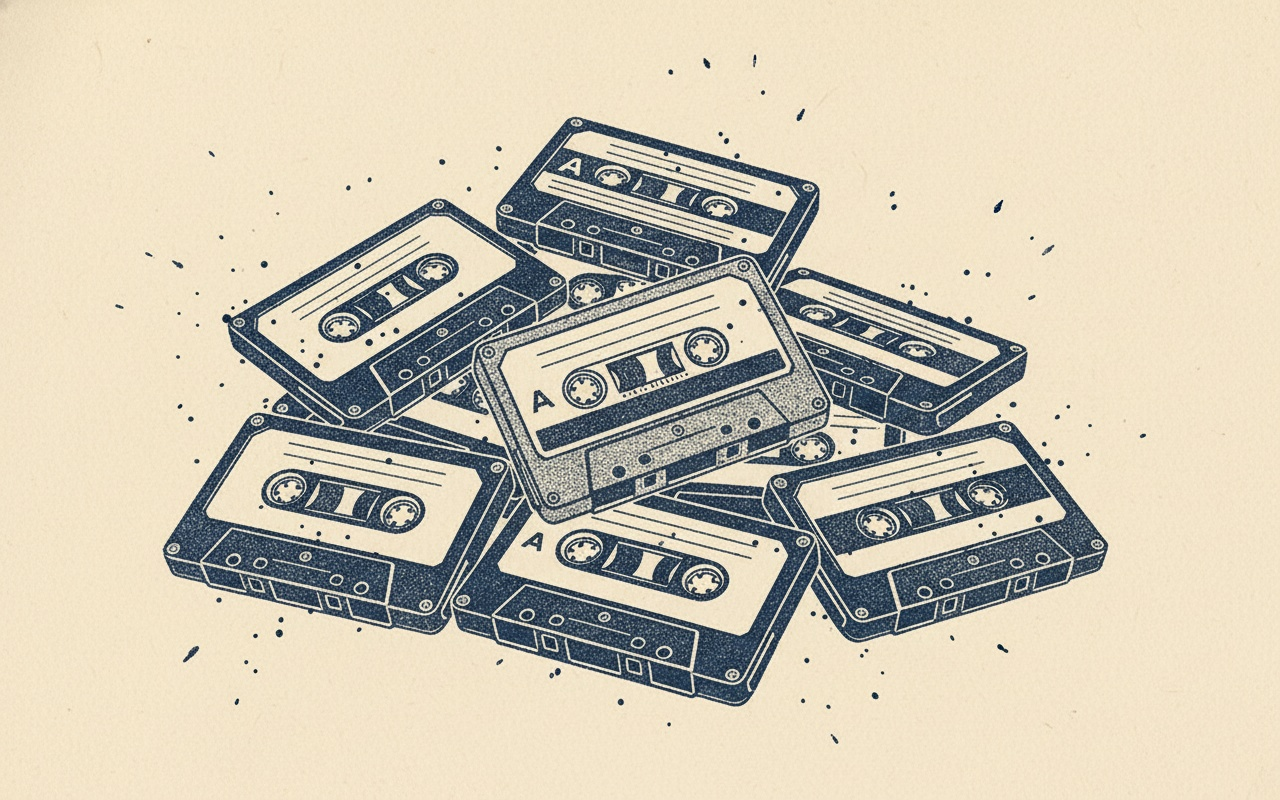
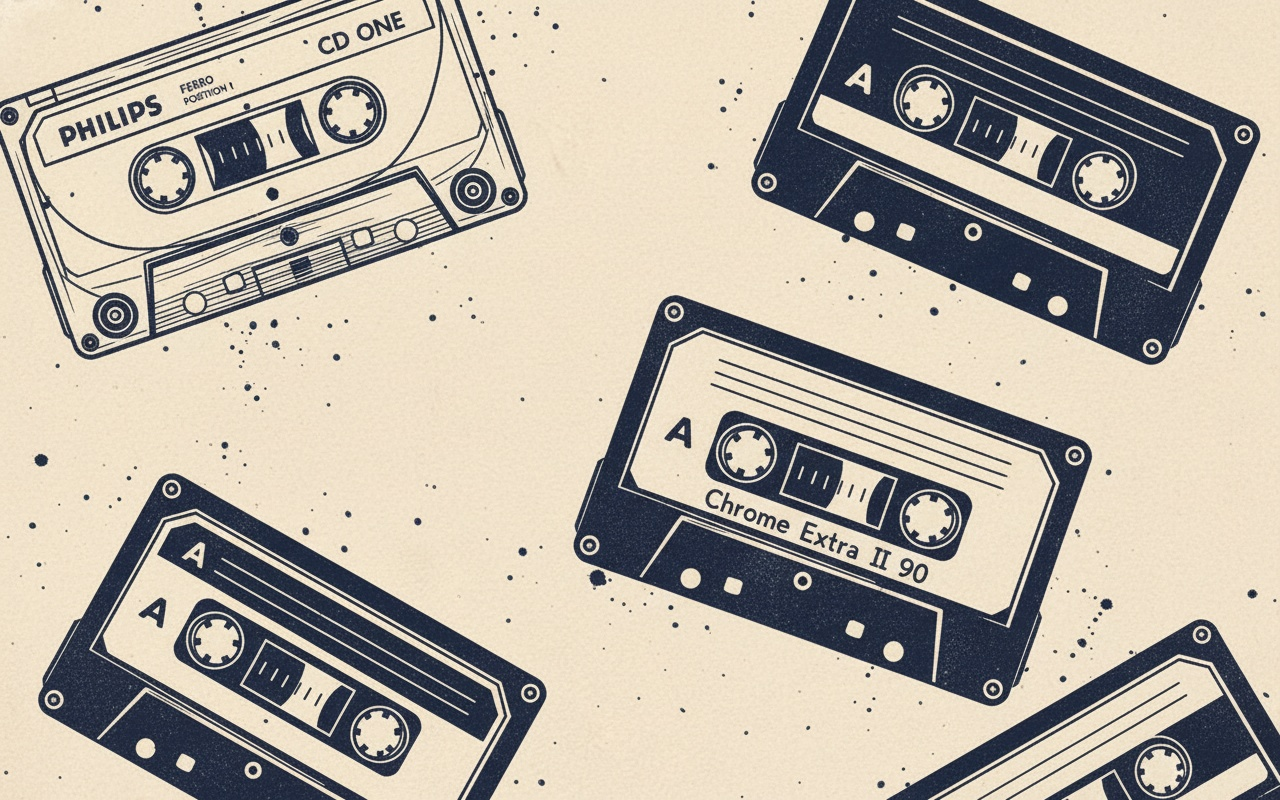
Updated stamps v2 — 5 distinct tapes

diff --git a/stamps.html b/stamps.html
@@ -7,9 +7,9 @@ h1{font-size:20px;color:#d4a843;margin-bottom:20px;}
 .stamp p{font-size:14px;color:#888;margin-top:8px;}
 </style></head><body>
 <h1>Stamp Backgrounds — Screenshot BGs</h1>
-<div class="stamp"><img src="stamp_1.jpg?v=1"><p>#1 — Scattered</p></div>
-<div class="stamp"><img src="stamp_2.jpg?v=1"><p>#2 — Loose rows</p></div>
-<div class="stamp"><img src="stamp_3.jpg?v=1"><p>#3 — Piled</p></div>
-<div class="stamp"><img src="stamp_4.jpg?v=1"><p>#4 — Grid</p></div>
-<div class="stamp"><img src="stamp_5.jpg?v=1"><p>#5 — Clustered</p></div>
+<div class="stamp"><img src="stamp_1.jpg?v=2"><p>#1 — Scattered</p></div>
+<div class="stamp"><img src="stamp_2.jpg?v=2"><p>#2 — Loose rows</p></div>
+<div class="stamp"><img src="stamp_3.jpg?v=2"><p>#3 — Piled</p></div>
+<div class="stamp"><img src="stamp_4.jpg?v=2"><p>#4 — Grid</p></div>
+<div class="stamp"><img src="stamp_5.jpg?v=2"><p>#5 — Clustered</p></div>
 </body></html>
